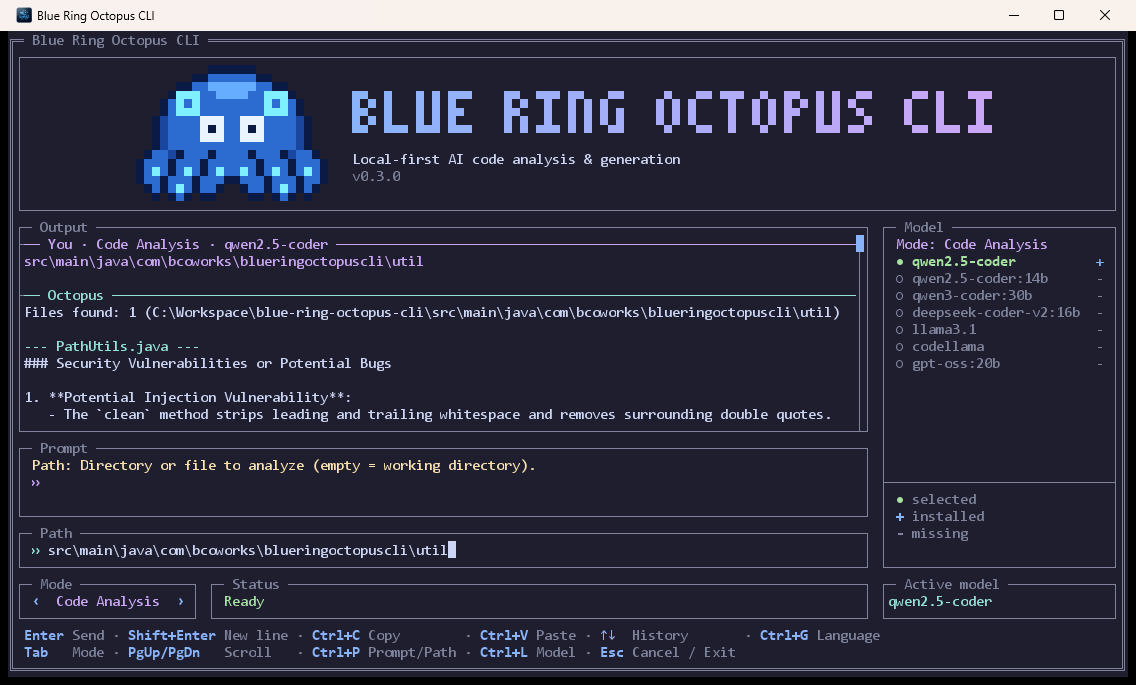
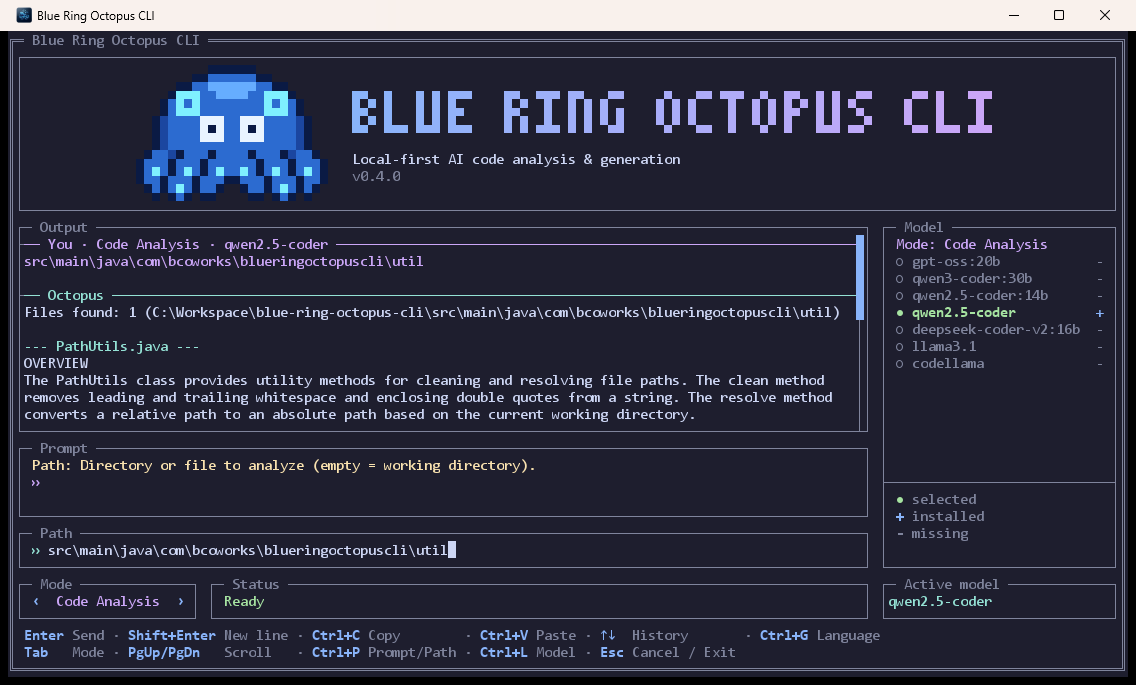
docs: prompts, measurements, usage and screenshots; bump to 0.4.0

Changed region(s): [[0.0, 0.5212, 0.7394, 0.6131], [0.8011, 0.3679, 0.9551, 0.5518], [0.7394, 0.3679, 0.7702, 0.4599]]

diff --git a/docs/PROMPTS.md b/docs/PROMPTS.md
@@ -1,0 +1,117 @@
+# Prompts
+
+What the application says to the model, why it is worded that way, and what was measured. Read this before you
+change a prompt.
+
+- [Where the prompts are](#where-the-prompts-are)
+- [How a call is made](#how-a-call-is-made)
+- [The review](#the-review)
+- [The context window](#the-context-window)
+- [What was measured](#what-was-measured)
+- [What did not work](#what-did-not-work)
+- [Limits and next steps](#limits-and-next-steps)
+- [Changing a prompt](#changing-a-prompt)
+
+## Where the prompts are
+
+Plain text files in `src/main/resources/prompts/`, one `<name>.system.txt` and one `<name>.user.txt` per task. The
+`{{name}}` placeholders are filled in by `PromptLibrary`.
+
+| Prompt | Used by | Notes |
+|---|---|---|
+| `analyze` | Code Analysis | English only; the review is always made in English |
+| `translate` | Code Analysis, other languages | Translates the free text of a review; has a glossary for the five other languages |
+| `generate` | Code Generation | One Java source file that compiles on its own |
+| `tests` | planned Unit Tests mode | JUnit 5 test class |
+| `document` | planned Documentation mode | Markdown (Word / PDF later), headings in six languages |
+| `inventory` | planned Documentation mode | Markdown table of the public API (Excel later) |
+
+`PromptLibraryTest` checks that every placeholder a prompt uses has a value, that a missing value is an error, and that
+the prompts stay short enough for a small context window.
+
+## How a call is made
+
+`CodeAssistant` builds one system message and one user message and sends them to the model chosen for the mode. It does
+not use LangChain4j's annotation templates: rendering is strict (an unknown placeholder fails fast), values such as
+source code are inserted as they are and never scanned for `{{...}}`, and the whole thing can be tested with a fake
+model.
+
+## The review
+
+A 7B coding model reasons well in English and badly when it has to analyse code and write the report in Turkish in one
+go (it answered "no issues" or copied its own notes). So:
+
+1. **Analysis in English.** The code is sent with line numbers (`12| code`), so the model can point at exact lines and
+   the reader can find them. The model first writes a scratch pad between `<notes>` tags (one line per suspicion, with
+   what the code really does there and a verdict), then the answer: `OVERVIEW`, `FINDINGS` (numbered, severity, line,
+   consequence, fix) and `SUMMARY`. The application removes the notes, and also copes with a notes block that was never
+   closed. It strips the Markdown that small models add although they are told not to (the output box shows plain text).
+2. **Localized frame.** For another language the application replaces the titles, the severity words, "line",
+   "Consequence", "Fix" and the "no issues" sentence by the words of the language files. This is text substitution, so
+   the frame is always right.
+3. **Translation.** A second call translates only the free text between those words, with a glossary of technical terms
+   (SQL injection, resource leak, catch block, ...) per language.
+4. **Fallback.** If the translation loses a title or a finding, the localized English review is shown instead.
+
+English costs one call, every other language two.
+
+## The context window
+
+Ollama cuts a prompt that does not fit its context window, and without a word. With its default settings a probe with a
+65,000 character prompt was read as only 2,050 tokens. The application therefore sets `num_ctx`
+(`octopus.model.num-ctx`, default 8192, which still fits a 7B model entirely on an 8 GB graphics card) and skips a file
+whose estimated size does not fit, with a message that names the setting. `ContextBudget` keeps 3,000 tokens free for
+the instructions, the notes and the answer, and its estimate is deliberately cautious.
+
+## What was measured
+
+Everything below was measured with `qwen2.5-coder` (7B, Q4) on an RTX 4060, temperature 0.2, several seeds per prompt.
+The samples are small Java files with known problems plus one clean file that must not get findings.
+
+**Review** (3 files with 12 known problems in total plus the clean control file; 3 seeds for the old prompt, 4 for the final one):
+
+| | Known problems found | Length | Markdown in the output | Clean file |
+|---|---|---|---|---|
+| Old prompt (0.3.0) | 81 % | ~450 words | yes, everywhere | 4 invented problems (in the run that was read in full) |
+| Final prompt | 69 % | ~150 words | removed | 0 or 1 invented problem |
+
+The final prompt finds somewhat fewer of the seeded problems than the old, long one, but it is a third of the length,
+points at lines, and invents far less. It is the best balance found with this model; a larger model will do better.
+Without the notes step it found 56 %. Section titles are present in 15 of 16 runs.
+
+**Code generation** (5 requests, compiled with `javac`; 2 seeds for the old prompt, 3 for the final one): 8 of 10
+compiled with the old prompt, 15 of 15 with the final one (standalone file, imports, no unknown types). The old prompt
+produced no Javadoc.
+
+**Unit tests** (3 classes, compiled and run with JUnit; 2 seeds for the first version, 3 for the final one): 79 % of the
+generated tests passed with the first version, 86 % with the final one. The failures are tests that expect validation
+the code does not have.
+
+## What did not work
+
+- **Notes step for code generation.** It made the model plan layered designs with types that do not exist: 6 of 10
+  compiled instead of 9 of 10.
+- **Analysis and report in the target language in one call.** The model copied its notes into the answer, skipped the
+  overview or fell back to English.
+- **Translating the whole review.** The model translated the labels wrongly ("Düzelme" for "Fix") or left the findings
+  in English. Localizing the frame first and translating only the free text fixed it.
+- **A 20 line limit for the notes.** Worse than 12 (recall 52 % against 69 %). With no limit the model sometimes
+  looped, listing ordinary code as "NOT REAL" until it ran out of tokens.
+- **Tying the answer to the notes** ("one finding per REAL line") made the model skip the overview.
+
+## Limits and next steps
+
+- A thread-safe cache is still written without synchronization by this model, and test expectations for behaviour the
+  code does not show are sometimes wrong. A compile-and-repair loop (the application runs on a JDK, so it can compile
+  in process and hand the errors back) would catch compile errors but not these.
+- Files that do not fit the window are skipped; reviewing them method by method would be better.
+- The model lists in `ModelCatalog` are recommendations based on what the models are good at, not measurements. Only
+  the 7B model was run here; a 14B or 20B model should be tried before trusting the order.
+
+## Changing a prompt
+
+1. Edit the file; `PromptLibraryTest` tells you if a placeholder is missing.
+2. Measure on more than one sample and more than one seed (three at least), and include a clean file. A single run is
+   noise: one prompt looked better than another on one seed and worse on the next.
+3. Check the whole output, not only the findings: a change once made the overview disappear in every run.
+4. Check at least one language other than English.

diff --git a/docs/USAGE.md b/docs/USAGE.md
@@ -85,7 +85,7 @@ and UTF-8 support.
 
 Typing `exit` (or `cikis`) in the prompt and pressing <kbd>Enter</kbd> also quits.
 
-**Mouse.** The mouse does a few things, on purpose: the wheel scrolls the Output box and a long prompt; a left click focuses the Prompt or Path box, switches the mode on the arrows of the Mode box and focuses the Model panel (a double click on a model chooses it); and dragging in the Output box selects text, a double click selects a word and a triple click a line. Touchpads (smooth, fractional scrolling) work too. Everything else (the keys of the model panel, dialogs) stays on the keyboard. Mouse support currently exists in the Windows window only; in a Linux/macOS terminal the mouse keeps its normal behaviour, so you can still select and copy text with it.
+**Mouse.** The mouse does a few things, on purpose: the wheel scrolls the Output box and a long prompt; a left click focuses the Prompt or Path box, switches the mode on the arrows of the Mode box and focuses the Model panel (a double click on a model chooses it); and dragging in the Output box selects text, a double click selects a word and a triple click a line. Touchpads (smooth, fractional scrolling) work too. The buttons of the exit and cancel dialogs and the rows of the language picker can be clicked too. Everything else (the keys of the model panel) stays on the keyboard. Mouse support currently exists in the Windows window only; in a Linux/macOS terminal the mouse keeps its normal behaviour, so you can still select and copy text with it.
 
 ## Modes
 
@@ -100,11 +100,13 @@ Switch modes with <kbd>Tab</kbd>. The hint line above the input shows what the c
 
 Limits and behaviour worth knowing:
 
-- Files larger than **64 KB** are skipped (and listed) so the local model is not overloaded.
+- Files larger than **64 KB**, or too big for the model's context window (see [Configuration reference](#configuration-reference)),
+  are skipped and listed with a message; the model would otherwise see only a fragment of them.
+- A review is written in English first and translated for the other languages, see [PROMPTS.md](PROMPTS.md).
 - These folders are never scanned: `.git`, `.idea`, `.mvn`, `.vscode`, `.gradle`, `target`, `build`, `node_modules`, `logs`.
 - Code generation is **Java only**. A request that names another language (Python, C#, ...) without mentioning Java is
   rejected before the model is called.
-- Relative paths are resolved against the working directory shown in the title of the Path field.
+- Relative paths are resolved against the directory the application was started in.
 
 ## Choosing a model
 
@@ -121,9 +123,11 @@ Each mode remembers its own model, so you can use a small fast model for reviews
   <br><sub>Code Generation mode: the selected model (green) is not installed, the installed one (blue) can be chosen, the rest are grey.</sub>
 </p>
 
-The list contains the suggested models (`qwen2.5-coder`, `qwen2.5-coder:14b`, `qwen3-coder:30b`,
-`deepseek-coder-v2:16b`, `llama3.1`, `codellama`, `gpt-oss:20b`) plus anything else you have installed.
-Your choice is stored in `~/.octopus-cli/models.properties`.
+The list has suggestions for the mode, best first (for example `qwen3-coder:30b` and `qwen2.5-coder:14b` for code
+generation, `gpt-oss:20b` for reviews and documentation), plus anything else you have installed. The order is a
+recommendation, not a measurement: the prompts were tuned with `qwen2.5-coder` (7B), which fits a graphics card with
+8 GB. Bigger models need more memory and are slower; try one before you rely on it. Your choice is stored in
+`~/.octopus-cli/models.properties`.
 
 ## One-shot commands
 
@@ -177,6 +181,8 @@ The model is asked to answer in the same language, and so are the mode names, hi
 | `logging.file.name` | `LOGGING_FILE_NAME` | `logs/octopus.log` |
 | Per-mode model | UI model panel | stored in `~/.octopus-cli/models.properties` |
 | `OCTOPUS_LANG` | environment variable, or <kbd>Ctrl</kbd>+<kbd>G</kbd> in the UI | `en`; the UI choice is stored in `~/.octopus-cli/settings.properties` |
+| `octopus.model.num-ctx` | `OCTOPUS_MODEL_NUM_CTX` | `8192` (tokens; the context window asked from Ollama, whose own default cuts long prompts silently) |
+| `octopus.model.max-tokens` | `OCTOPUS_MODEL_MAX_TOKENS` | `4096` (upper limit for one answer) |
 
 Any Spring Boot property can be overridden with an environment variable (dots and dashes become underscores, upper
 case) or with `--property=value` on the command line.

diff --git a/docs/ARCHITECTURE.md b/docs/ARCHITECTURE.md
@@ -59,7 +59,7 @@ flowchart TB
 
     subgraph ai["AI layer"]
         registry["AiServiceRegistry"]
-        service["ICodeAnalyzerService<br/>(prompt templates)"]
+        service["CodeAssistant · PromptLibrary<br/>(prompts/*.txt)"]
         models["ModelSettings · InstalledModels · ModelCatalog"]
     end
 
@@ -90,7 +90,7 @@ The UI picks the handler for the current mode through `ModeDispatcher`; the one-
 | `i18n` | `Language` (the six interface languages) and `Messages` (every text shown to the user, loaded from `i18n/messages_<code>.properties`). |
 | `mode` | One handler per mode, the dispatcher, the `ModeRequest` value object and the `IModeConsole` abstraction. |
 | `model` | Everything about *which* model is used: client registry, installed-model discovery, per-mode settings, suggestions. |
-| `service` | `ICodeAnalyzerService` (the LLM prompts) and `SourceCodeScanner`. |
+| `service` | `CodeAssistant` (what is asked of the model), `PromptLibrary` (the prompt files), `ReviewLocalizer`, `ContextBudget` and `SourceCodeScanner`. See [PROMPTS.md](PROMPTS.md). |
 | `tui` | The Lanterna user interface. |
 | `util` | `PathUtils`: quote stripping and relative-path resolution. |
 
@@ -167,18 +167,19 @@ sequenceDiagram
     A->>S: scanJavaFiles(path)
     S-->>A: .java files (ignored folders removed)
     A->>R: forMode(CODE_ANALYSIS)
-    R-->>A: ICodeAnalyzerService for the selected model
+    R-->>A: CodeAssistant for the selected model
     loop every file
-        A->>A: cancelled? skip files over 64 KB or blank
-        A->>M: analyze(code) via LangChain4j
+        A->>A: cancelled? skip blank files, files over 64 KB or too big for the context window
+        A->>M: analyze(file): English review, translated for other languages
         M-->>A: review text
         A-->>W: console.println(review) / progress(i, total)
     end
     A-->>W: "Analiz tamamlandı"
 ```
 
-Guards: files over **64 KB** are skipped and reported, blank files are ignored, a missing path is reported instead of
-failing, and the loop checks for cancellation before every file.
+Guards: files over **64 KB** or too big for the model's context window (`octopus.model.num-ctx`) are skipped and
+reported, blank files are ignored, a missing path is reported instead of failing, and the loop checks for cancellation
+before every file.
 
 ## Flow: code generation
 
@@ -247,10 +248,11 @@ an embedded store such as SQLite and an ADR describing why a file is no longer e
 To add a new mode (for example the planned documentation writer):
 
 1. Add a constant to `AppMode` and its `mode.<NAME>.name`, `.prompt` and `.path` texts to every language file.
-2. Add a prompt method to `ICodeAnalyzerService` (or a new service interface).
+2. Add a prompt (`<name>.system.txt` and `<name>.user.txt` under `src/main/resources/prompts/`) and a method on
+   `CodeAssistant` that renders it. Read [PROMPTS.md](PROMPTS.md) first.
 3. Implement `IModeHandler` (or replace the `PlannedModeHandler` subclass for that mode). Use `IModeConsole` for all
    output and honour `isCancelled()`.
 4. Add unit tests; `ModeDispatcher` already guarantees the wiring is complete.
 
 To support another model backend, create the chat model in `AiServiceRegistry.create(...)`; the rest of the code only
-sees `ICodeAnalyzerService`.
+sees `CodeAssistant`.

diff --git a/CHANGELOG.md b/CHANGELOG.md
@@ -8,6 +8,35 @@ contain breaking changes.
 
 ## [Unreleased]
 
+### Added
+
+- **Prompts for the four modes** (`src/main/resources/prompts/`), tuned and measured against the local model, see
+  [docs/PROMPTS.md](docs/PROMPTS.md). The prompts for the planned Unit Tests and Documentation modes (Word/PDF text and
+  an Excel-ready API table) are ready, the modes themselves are not.
+- `octopus.model.num-ctx` (default 8192) and `octopus.model.max-tokens` (default 4096), also as the environment
+  variables `OCTOPUS_MODEL_NUM_CTX` and `OCTOPUS_MODEL_MAX_TOKENS`.
+
+### Changed
+
+- **Code analysis explains and points at lines.** A review has an overview of what the code does, numbered findings
+  with severity, line, consequence and fix, and a verdict, as plain text. The code is sent with line numbers. It is
+  shorter than before (about a third) and invents far fewer problems, on a clean file as well.
+- **Reviews in other languages** are made in English first; the application then puts the frame of the review (titles,
+  severity, line, Consequence, Fix) into the selected language and a second call translates only the free text, with a
+  glossary of technical terms. If the translation breaks the frame, the localized English review is shown.
+- **Code generation** must produce one file that stands alone (imports, no unknown types, helper types nested) and
+  documents the public API; comments are written in the selected language.
+- The model panel lists suggestions per mode, best first (`gpt-oss:20b` for reviews and documentation,
+  `qwen3-coder:30b` for generation and tests); `qwen2.5-coder` is in every list.
+- The model calls go through `CodeAssistant` instead of LangChain4j annotation templates.
+
+### Fixed
+
+- The exit popup (and the cancel popup and the language picker) could not be used with the mouse. The buttons and the
+  language rows can be clicked now.
+- Ollama's default context window cut long files silently, so a big class was reviewed from a fragment. The window is
+  asked for explicitly now and a file that does not fit is skipped with a message that names the setting.
+
 ## [0.3.0] - 2026-10-07
 
 ### Added

diff --git a/README.tr.md b/README.tr.md
@@ -57,7 +57,8 @@ konuşur; kaynak kodunuz bilgisayarınızdan çıkmaz, yönetilecek bir API anah
 
 - **Kod analizi modu.** Bir dosyayı ya da bir dizini `.java` dosyaları için tarar; her birini güvenlik açıkları, hatalar,
   performans riskleri ve Clean Code ihlalleri açısından inceler. Derleme ve araç klasörleri (`.git`, `target`,
-  `node_modules`, ...) atlanır; 64 KB'tan büyük dosyalar modele hiç gönderilmez.
+  `node_modules`, ...) atlanır. Bir inceleme kodun ne yaptığını anlatır, sorunları satır numarası ve önem derecesiyle
+  listeler ve bir hükümle biter. Modelin bağlam penceresine sığmayan dosyalar sessizce kesilmez, bir mesajla atlanır.
 - **Kod üretim modu.** Bir sınıfı düz metinle anlatın; model Java kaynağı döndürür, Markdown çitleri temizlenir, tip adı
   bulunur ve dosya `generated/<SınıfAdı>.java` (ya da seçtiğiniz yol) olarak kaydedilir. Var olan dosyanın üzerine yazılmaz.
 - **Mod başına model.** Her mod için <kbd>Ctrl</kbd>+<kbd>L</kbd> ile farklı bir Ollama modeli seçin. Panel hangi
@@ -259,7 +260,7 @@ Fikirler taahhüt değildir. Biri sizin için önemliyse nedenini anlatan bir
 | `src/main/java/.../model` | Ollama istemci kaydı, kurulu model keşfi, mod başına ayarlar |
 | `src/main/java/.../tui` | Lanterna kullanıcı arayüzü |
 | `src/main/java/.../cli` | Spring Shell tek seferlik komutlar |
-| `src/main/java/.../service` | Yapay zekâ promptları (`ICodeAnalyzerService`) ve kaynak tarayıcı |
+| `src/main/java/.../service` | Model çağrıları (`CodeAssistant`), prompt dosyaları (`src/main/resources/prompts`, bkz. [PROMPTS.md](docs/PROMPTS.md)) ve kaynak tarayıcı |
 | `docs/` | Mimari, kullanım kılavuzu ve görsel dosyalar |
 
 Java 25 gerekir. CI, her push ve pull request için derlemeyi ve testleri Linux ve Windows'ta çalıştırır.

diff --git a/README.md b/README.md
@@ -58,7 +58,9 @@ manage and no per-token bill.
 
 - **Code analysis mode.** Scans a file or a whole directory for `.java` files and reviews each one for security
   problems, bugs, performance risks and Clean Code violations. Build and tooling folders (`.git`, `target`,
-  `node_modules`, ...) are skipped, and files larger than 64 KB are never sent to the model.
+  `node_modules`, ...) are skipped. A review explains what the code does, lists the problems with line numbers and
+  severity, and ends with a verdict. Files that do not fit the model's context window are skipped with a message
+  instead of being cut silently.
 - **Code generation mode.** Describe a class in plain language; the model returns Java source, Markdown fences are
   stripped, the type name is detected and the file is written to `generated/<ClassName>.java` (or a path you choose).
   An existing file is never overwritten.
@@ -260,7 +262,7 @@ Ideas are not commitments. If one matters to you, [open an issue](https://github
 | `src/main/java/.../model` | Ollama client registry, installed-model discovery, per-mode settings |
 | `src/main/java/.../tui` | Lanterna user interface |
 | `src/main/java/.../cli` | Spring Shell one-shot commands |
-| `src/main/java/.../service` | AI prompts (`ICodeAnalyzerService`) and the source scanner |
+| `src/main/java/.../service` | The model calls (`CodeAssistant`), the prompt files (`src/main/resources/prompts`, see [PROMPTS.md](docs/PROMPTS.md)) and the source scanner |
 | `docs/` | Architecture, usage guide and image assets |
 
 Java 25 is required. CI runs the build and the tests on Linux and Windows for every push and pull request.

diff --git a/CONTRIBUTING.md b/CONTRIBUTING.md
@@ -40,9 +40,12 @@ changing the mode layer or the UI.
 3. **Write or update tests.** Logic that does not need a UI or a model should have a unit test. The existing tests in
    `src/test/java` show the style (JUnit 5, no Spring context unless it is really needed).
 4. **Run `./mvnw verify`** and make sure it passes.
-5. **Update the documentation** (`README`, `docs/`) and add a line under `## [Unreleased]` in
+5. **Changing a prompt?** The prompts are text files in `src/main/resources/prompts/`. Read
+   [docs/PROMPTS.md](docs/PROMPTS.md) first: a prompt has to be measured on several samples and seeds, not judged on one
+   answer.
+6. **Update the documentation** (`README`, `docs/`) and add a line under `## [Unreleased]` in
    [CHANGELOG.md](CHANGELOG.md) when the change is visible to users.
-6. **Open a pull request** and fill in the template. CI must be green before a review.
+7. **Open a pull request** and fill in the template. CI must be green before a review.
 
 ### Code style
 
